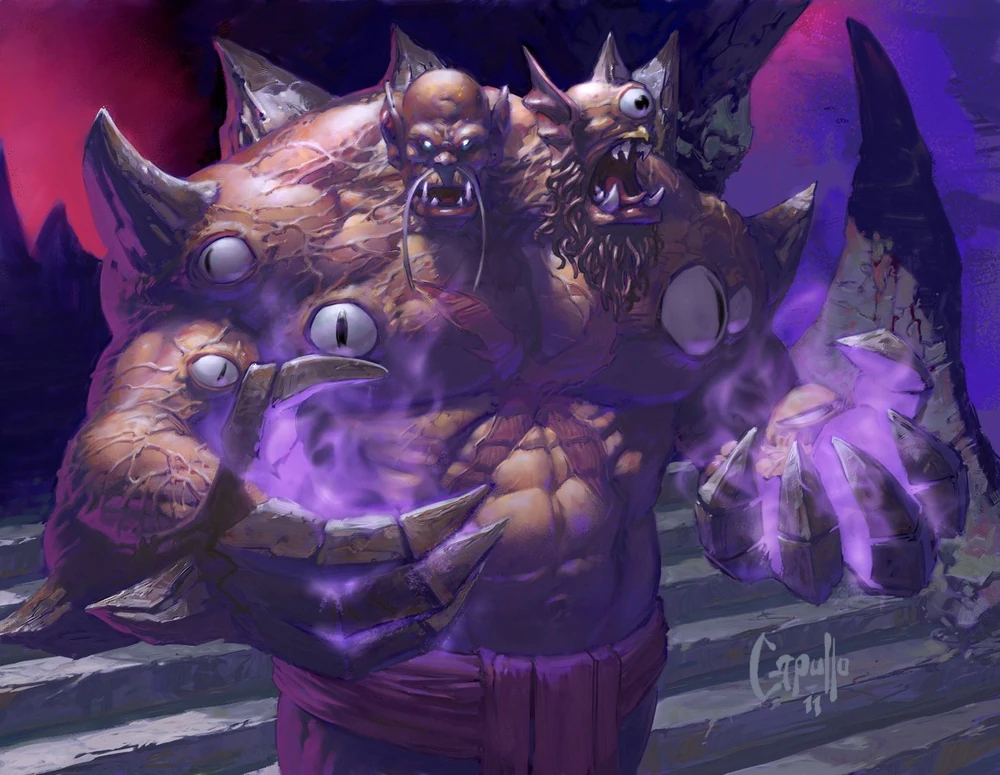
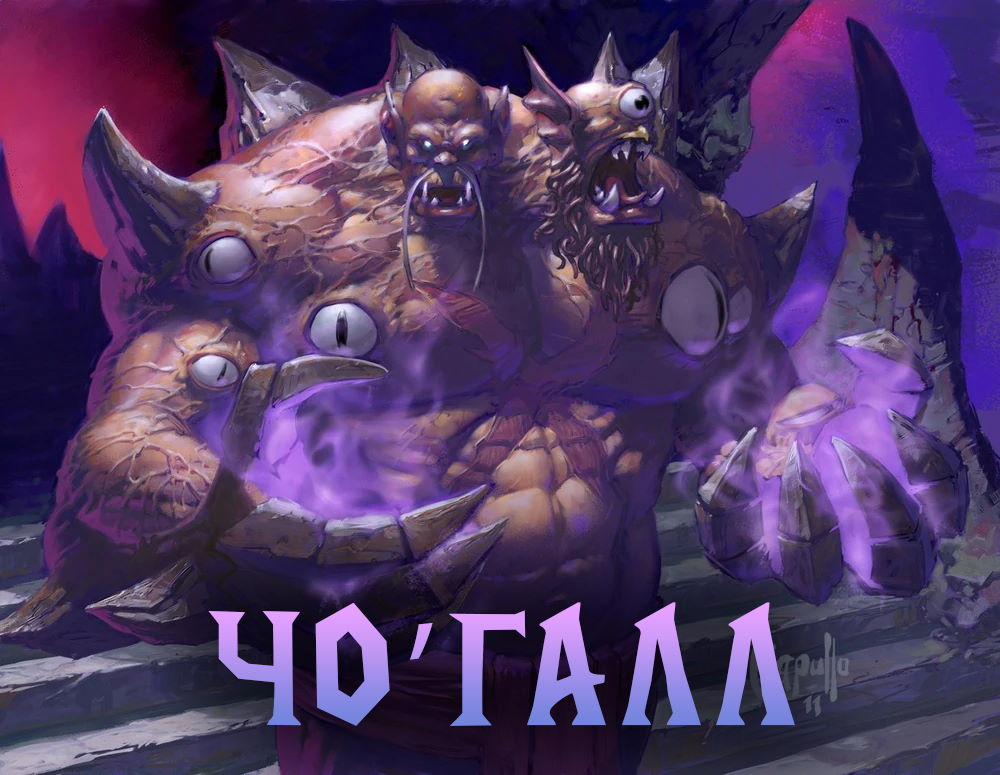
Images for Chogall

Changed region(s): [[0.155, 0.7123, 0.837, 1.0]]

diff --git a/docs/bot/Chogal.md b/docs/bot/Chogal.md
@@ -2,7 +2,7 @@
 sidebar_position: 5
 title: Чо'галл
 description: Описание и тактика на Чо'галла.
-image: /img/bot/Chogal/Chogal.jpg
+image: /img/bot/Chogal/Chogall.jpg
 ---
 
 import Tabs from '@theme/Tabs';
@@ -10,28 +10,25 @@ import TabItem from '@theme/TabItem';
 
 <div className="text--center">
 
-![Esho_dva_ebala](/img/bot/Chogal/Chogall.png)
+![Esho_dva_ebala](/img/bot/Chogal/Chogall.jpg)
 
 </div>
 
-<div className="text--center lore_text">
-<b>
+<div className="lore_text">
 
-Чо'галл — это двухголовый огр, который наряду с Черносердом Проповедником, стал прародителем подобных ему созданий.
+**Чо'галл — это двухголовый огр, который наряду с Черносердом Проповедником, стал прародителем подобных ему созданий.
 Он был учеником чернокнижника Гул'дана, помогавшего огру овладеть искусством тайной магии и освоить силы из
 Круговерти Пустоты. Со временем он стал одним из наиболее опасных и почитаемых членов старой Орды, что проявилось во
 время Первой и Второй войны против людей. Совместно с Килроггом Мертвым Глазом он возглавлял первую неудавшуюся осаду
-крепости Штормграда.
+крепости Штормграда.**
 
-Чо'галл занял место предыдущего вождя клана орков, после того как его предшественник был казнён за неповиновение Совету
-Теней. Двуголовый огр переименовал клан, дав ему новое название — Сумеречный Молот, уничтожив все записи со старым
-названием и
-упоминанием предыдущего вождя.
+**Чо'галл занял место предыдущего вождя клана орков, после того как его предшественник был казнён за неповиновение Совету
+Теней. Двухголовый огр переименовал клан, дав ему новое название — Сумеречный Молот, уничтожив все записи со старым
+названием и упоминанием предыдущего вождя.**
 
-Огр-маг превратил Сумеречный Молот в культ фанатиков, поклоняющихся древним богам — предвестникам апокалипсиса. Под
-предватительством Чо'Галла они встали на службу Смертокрыла, и помогают ему приблизить конец света, Время сумерек.
+**Огр-маг превратил Сумеречный Молот в культ фанатиков, поклоняющихся древним богам — предвестникам апокалипсиса. Под
+предводительством Чо'Галла они встали на службу Смертокрыла, и помогают ему приблизить конец света, Время сумерек.**
 
-</b>
 </div>
 
 Четвёртый энкаунтер Сумеречного бастиона. В нормальном режиме это ласт босс рейда. Но если убить его
@@ -59,7 +56,7 @@ import TabItem from '@theme/TabItem';
 - **Механика усиления Чо'Галла элементалями**: время от времени босс рядом с собой будет призывать огненного или тёмного
   элементаля. Это не тот адд которого нужно
   танчить, нет. Эти элемчики просто стоят и чилят на месте. Однако спустя несколько секунд Чо'Галл поглощает вызванного
-  элема, после чего либо **АОЕшит весь рейд [усилением тени](https://www.wowhead.com/cata/ru/spell=81572) (нужно
+  элема, после чего: либо **АОЕшит весь рейд [усилением тени](https://www.wowhead.com/cata/ru/spell=81572) (нужно
   прохилить)**, либо создаёт **огненные лужи [пламени](https://www.wowhead.com/cata/ru/spell=81538) по всей арене (не
   надо
   туда наступать)**. Однако тут есть нюанс: вызыванные элемы имеют здоровье. Чем больше будет ХП у них при поглощении
@@ -135,7 +132,7 @@ import TabItem from '@theme/TabItem';
 В целом 2-я фаза это чистый ДПС и Хил чек геймплей.
 
 <div className="text--center">
-<b><i>Отличие нормального режима от <span className="red">героического</span></i></b>
+***Отличие нормального режима от <span className="red">героического</span>***
 </div>
 
 </TabItem>
@@ -157,7 +154,7 @@ import TabItem from '@theme/TabItem';
 вырастает [тентакля](https://www.wowhead.com/cata/ru/spell=82125) и некоторые способности энкаунтера наносят
 дополнительный урон. **Если игрок полностью заразится порченной кровью, то он превращается в маленького безликого. Он
 наносит на 100% больше урона, время каста уменьшается на 100%. Однако персонажа становится невозможно вылечить.** Это не
-значит, что нужно лутать кровь и сильнее дамажить. **Никакого способо снять уровень порченной крови нет! Так что не
+значит, что нужно лутать кровь и сильнее дамажить. **Никакого способа снять уровень порченной крови нет! Так что не
 попадайтесь под способности босса и аддов.**
 
 </TabItem>
@@ -165,12 +162,12 @@ import TabItem from '@theme/TabItem';
 
 ## Арена энкаунтера
 
-Обычная большая комната. Чо'Галл сидит на троне, с боков арены находятся порталы, из которых босс вызывает окверняющих
+Обычная большая комната. Чо'Галл сидит на троне, с боков арены находятся порталы, из которых босс вызывает оскверняющих
 адептов
 
 <div className="text--center">
 
-![Esho_dva_ebala](/img/bot/Chogal/Arena_pokaz.png)
+![Esho_dva_ebala](/img/bot/Chogal/Arena_pokaz.jpg)
 
 </div>
 
@@ -180,14 +177,13 @@ import TabItem from '@theme/TabItem';
 
 ### 1 Фаза
 
-<div className="text--center">
-<b><i>Длится до 25% Чо'Галла</i></b>
-</div>
+:::note
 
+Длится до 25% Чо'Галла
 
-<div className="text--center">
-<b><i>Механика усиления Чо'Галла элементалями</i></b>
-</div>
+:::
+
+#### Усиление Чо'Галла элементалями
 
 На 1-й фазе Чо'Галл время от времени вызывает одного из двух элемов:
 
@@ -201,7 +197,7 @@ import TabItem from '@theme/TabItem';
 - [Приказ тьмы](https://www.wowhead.com/cata/ru/spell=81556) **(мгновенное)**: босс вызывает Владыку теней.
 
 <div className="text--center">
-<b><i>Вызов и поглощение элементаля</i></b>
+***Вызов и поглощение элементаля***
 
 TODO
 
@@ -212,14 +208,14 @@ TODO
 - [Мощь огня](https://www.wowhead.com/cata/ru/spell=93245) **(бафф на мобе)**: изначально 10 стаков. Если сносить ХП
   моба, то кол-во стаков убывает (1 стак каждые 10%). Минимум всегда остаётся 1
   стак [мощи огня](https://www.wowhead.com/cata/ru/spell=93245). **Элементаля нельзя убить, его здоровье не может
-  опустится ниже 1 единицы!** Через 10 сек. после призыва Чо'Галл поглощает элементаля. Сколько
+  опуститься ниже 1 единицы!** Через 10 сек. после призыва Чо'Галл поглощает элементаля. Сколько
   стаков [мощи](https://www.wowhead.com/cata/ru/spell=93245) было на мобе в момент поглощения, столько Чо'Галл получит
   стаков [огненного уничтожения](https://www.wowhead.com/cata/ru/spell=81194) (об этом ниже).
 - [Усиленные тени](https://www.wowhead.com/cata/ru/spell=81572) **(бафф на мобе)**: изначально 10 стаков. Если сносить
   ХП
   моба, то кол-во стаков убывает (1 стак каждые 10%). Минимум всегда остаётся 1
   стак [усиленных теней](https://www.wowhead.com/cata/ru/spell=81572). **Владыку нельзя убить, его здоровье не может
-  опустится ниже 1 единицы!** Через 10 сек. после призыва Чо'Галл поглощает владыку теней. Сколько
+  опуститься ниже 1 единицы!** Через 10 сек. после призыва Чо'Галл поглощает владыку теней. Сколько
   стаков [усилений](https://www.wowhead.com/cata/ru/spell=81572) было на мобе в момент поглощения, столько Чо'Галл
   получит
   стаков [усилений](https://www.wowhead.com/cata/ru/spell=81572) (об этом ниже).
@@ -234,7 +230,7 @@ TODO
 
 <div className="text--center">
 
-![Esho_dva_ebala](/img/bot/Chogal/Cho_luzi.gif)
+![Esho_dva_ebala](https://www.wowhcb.ru/adepts/bot/Chogal/Cho_luzi.gif)
 
 </div>
 
@@ -245,13 +241,11 @@ TODO
 
 <div className="text--center">
 
-![Esho_dva_ebala](/img/bot/Chogal/Cho_pihi.gif)
+![Esho_dva_ebala](https://www.wowhcb.ru/adepts/bot/Chogal/Cho_pihi.gif)
 
 </div>
 
-<div className="text--center">
-<b><i>Другие способности Чо'Галла на 1 фазе</i></b>
-</div>
+#### Другие способности Чо'Галла на 1 фазе
 
 - [Обращение в веру](https://www.wowhead.com/cata/ru/spell=91303) **(мгновенное)**: босс подчиняет разум нескольких
   игроков (если быть точным, то 4 штуки). Законтроленные игроки тут же начинают применять потоковое
@@ -266,16 +260,17 @@ TODO
           урон на 5% за каждый стак в течении 1 мин.
 
 <div className="text--center">
-<b><i>Пример с 10-ки. Внизу гифки виден анонс ([Поклонение](https://www.wowhead.com/cata/ru/spell=91317): Псифей, Махнец), и появляются "вражеские" фреймы. Протвар с чарджа "приводит в чуство" элема, который стоит поодаль от пачки.</i></b>
+***Пример с 10-ки. Внизу гифки виден анонс ([Поклонение](https://www.wowhead.com/cata/ru/spell=91317): Псифей, Махнец), 
+и появляются "вражеские" фреймы. Протвар с чарджа "приводит в чувство" элема, который стоит поодаль от пачки.***
 
-![Esho_dva_ebala](/img/bot/Chogal/Cho_poklonenie.gif)
+![Esho_dva_ebala](https://www.wowhcb.ru/adepts/bot/Chogal/Cho_poklonenie.gif)
 
 </div>
 
 :::caution
 
 Работает любой контроль, который сбивает каст. Очень хорошо работает [гром](https://www.wowhead.com/cata/ru/spell=59507)
-элем-шамана, т.к. обычно на этом боссе все стоят в одной пачке, а эта АОЕшка выводит из МК всег сразу же. По тойже
+элем-шамана, т.к. обычно на этом боссе все стоят в одной пачке, а эта АОЕшка выводит из МК всег сразу же. По той же
 причине [тайфун](https://www.wowhead.com/cata/ru/spell=50516) баланс-друида тоже юзабелен, хоть и несколько сложнее.
 
 :::
@@ -290,9 +285,9 @@ TODO
       получаемый <span className="dmg-shadow">тёмный</span> урон на 20%.
 
 <div className="text--center">
-<b><i>Пример от лица МТ (с его дебаффами)</i></b>
+***Пример от лица МТ (с его дебаффами)***
 
-![Esho_dva_ebala](/img/bot/Chogal/Cho_lazer.gif)
+![Esho_dva_ebala](https://www.wowhcb.ru/adepts/bot/Chogal/Cho_lazer.gif)
 
 </div>
 
@@ -306,16 +301,14 @@ TODO
   способность Чо'Галл всегда применяет за несколько секунд
   перед [призывом оскверняющих адептов](https://www.wowhead.com/cata/ru/spell=81628).
 
-<div className="text--center">
-<b><i>Оскверняющие адепты и слизни</i></b>
-</div>
+#### Оскверняющие адепты и слизни
 
 Данные адды появляются рядом с порталами в двух разных частях комнаты. Их призывает Чо'Галл
 заклинанием [призыв оскверняющего адепта](https://www.wowhead.com/cata/ru/spell=81628) **каждые 90 сек.**
 
 <div className="text--center">
 
-![Esho_dva_ebala](/img/bot/Chogal/Arena_pokaz.png)
+![Esho_dva_ebala](/img/bot/Chogal/Arena_pokaz.jpg)
 
 </div>
 
@@ -364,9 +357,11 @@ TODO
 <TabItem value="luza" label="Пролитая кровь древнего бога">
 
 <div className="text--center">
-<b><i>Смерть оскверняющего адепта (справа) и его [лужа](https://www.wowhead.com/cata/ru/spell=81757) после смерти. На гифке виден другой труп адда (слева) с [лужей](https://www.wowhead.com/cata/ru/spell=81757). ОТ всё сделал правильно: нужно ложить трупы этих мобов рядышком.</i></b>
+***Смерть оскверняющего адепта (справа) и его [лужа](https://www.wowhead.com/cata/ru/spell=81757) после смерти. 
+На гифке виден другой труп адда (слева) с [лужей](https://www.wowhead.com/cata/ru/spell=81757). ОТ всё сделал 
+правильно: нужно класть трупы этих мобов рядышком.***
 
-![Esho_dva_ebala](/img/bot/Chogal/Cho_luza_adda.gif)
+![Esho_dva_ebala](https://www.wowhcb.ru/adepts/bot/Chogal/Cho_luza_adda.gif)
 
 </div>
 
@@ -397,7 +392,7 @@ TODO
 
 :::danger
 
-Трупы аддов не пропадают со временем. Таким образом, чем дальше бой тем больше слизняков будет появлятся после прочтения
+Трупы аддов не пропадают со временем. Таким образом, чем дальше бой тем больше слизняков будет появляться после прочтения
 Чо'Галлом [заражённой крови](https://www.wowhead.com/cata/ru/npc=43707), т.к. рейду придётся убивать оскверняющих
 адептов. Больше трупов - больше аддов-слизней.
 
@@ -429,7 +424,7 @@ TODO
 
 <div className="text--center">
 
-![Esho_dva_ebala](/img/bot/Chogal/Cho_adepti+sliz.gif)
+![Esho_dva_ebala](https://www.wowhcb.ru/adepts/bot/Chogal/Cho_adepti+sliz.gif)
 
 </div>
 
@@ -453,20 +448,22 @@ TODO
 **ЗАМЕДЛЯЮТ И ЗАЛИВАЮТ**. Каждый мелкий адд-слизь выбирает случайного игрока и направляется к нему. На этих мелких мобов
 работают
 все основные контроли движения: замедление,
-оглушение, откидывание, обездвиживание. Они двигается достаточно быстро (быстрее чем бегает игрок). Адды-слизи в своём
+оглушение, откидывание, обездвиживание. Они двигаются достаточно быстро (быстрее чем бегает игрок). Адды-слизи в своём
 арсенале не имеют никакие способности. Однако каждая их атака помимо нанесения урона также увеличивает
 уровень [порченной крови](https://www.wowhead.com/cata/ru/spell=81701).
 
 ### 2 Фаза
 
-<div className="text--center">
-<b><i>Начинается на 25% Чо'Галла и продолжается до конца</i></b>
-</div>
+:::note
+
+Начинается на 25% Чо'Галла и продолжается до конца
+
+:::
 
 В начале этой фазы босс применяет следующую способность:
 
 - [Поглощение крови древнего бога](https://www.wowhead.com/cata/ru/spell=82630) **(мгновенное -> потоковое 5 сек.)**:
-  Чо'Галл всасывает себя всю порченную кровь от аддов на арене.
+  Чо'Галл всасывает себя всю порченую кровь от аддов на арене.
     - Пропадают все лужи [пролитой крови древнего бога](https://www.wowhead.com/cata/ru/spell=81757) под трупами
       оскверняющих адептов.
     - Пропадают все трупы оскверняющих адептов.
@@ -475,7 +472,7 @@ TODO
 
 <div className="text--center">
 
-![Sliz](/img/bot/Chogal/Cho_perehodka.gif)
+![Sliz](https://www.wowhcb.ru/adepts/bot/Chogal/Cho_perehodka.gif)
 
 </div>
 
@@ -486,7 +483,7 @@ TODO
 
 - [Порча древнего бога](https://www.wowhead.com/cata/ru/spell=82361) **(дамажащая аура)**: ВСЕ игроки получают
   <span className="dmg-shadow">тёмный</span> урон раз в 2 сек. Базовое значение составляет 6500. Урон по конкретному
-  игроку зависит от его уровня [порченной крови](https://www.wowhead.com/cata/ru/spell=81701). Каждая накопленная единца
+  игроку зависит от его уровня [порченной крови](https://www.wowhead.com/cata/ru/spell=81701). Каждая накопленная единица
   увеличивает входящий урон от ауры на 3%. Вдобавок сама аура с каждым тиком увеличивает
   уровень [порченной крови](https://www.wowhead.com/cata/ru/spell=81701).
 
@@ -501,18 +498,18 @@ TODO
 
 - [Смутные творения (глазки)](https://www.wowhead.com/cata/ru/spell=82414) **(мгновенное)**: Чо'Галл призывает рядом с
   собой
-  10 маленьких тентаклей с глазками. У кждого глазка **248 982 здоровья**. Их можно станить. Они выбирают случайных
+  10 маленьких тентаклей с глазками. У каждого глазка **248 982 здоровья**. Их можно станить. Они выбирают случайных
   игроков и поражают
   их [ослабляющими лучами](https://www.wowhead.com/cata/ru/spell=82411). Чо'Галл призывает эти глазки каждые 40 сек.
     - [Ослабляющий луч](https://www.wowhead.com/cata/ru/spell=82411) **(1,5 сек. -> потоковое 10 сек.)**: игрок, на
-      котором сфокусирован глазок, получает можное ослабление. Его урон и исходящее исцеление уменьшены на 75%. Также
+      котором сфокусирован глазок, получает мощное ослабление. Его урон и исходящее исцеление уменьшены на 75%. Также
       каждую секунду персонаж получает 11 000 <span className="dmg-shadow">тёмного</span> урона и увеличивает свой
       уровень  [порченной крови](https://www.wowhead.com/cata/ru/spell=81701). Это заклинание можно **прервать**.
 
 <div className="text--center">
-<b><i>Пример [смутных творений](https://www.wowhead.com/cata/ru/spell=82414) из 10-ки (там появляется 4 штуки за раз)</i></b>
+***Пример [смутных творений](https://www.wowhead.com/cata/ru/spell=82414) из 10-ки (там появляется 4 штуки за раз)***
 
-![Sliz](/img/bot/Chogal/Cho_glaza.gif)
+![Sliz](https://www.wowhcb.ru/adepts/bot/Chogal/Cho_glaza.gif)
 
 </div>
 
@@ -526,7 +523,7 @@ TODO
 
 <div className="text--center">
 
-![Sliz](/img/bot/Chogal/Cho_shuplo.gif)
+![Sliz](https://www.wowhcb.ru/adepts/bot/Chogal/Cho_shuplo.gif)
 
 </div>
 
@@ -538,7 +535,7 @@ TODO
 
 <div className="text--center">
 
-![Sliz](/img/bot/Chogal/Cho_fontani.gif)
+![Sliz](https://www.wowhcb.ru/adepts/bot/Chogal/Cho_fontani.gif)
 
 </div>
 
@@ -568,7 +565,7 @@ TODO
   фазе ([порча древнего бога](https://www.wowhead.com/cata/ru/spell=82361)) на 3%.
 
 <div className="text--center">
-<b><i>Пустая шкала (ну почти)</i></b>
+***Пустая шкала (ну почти)***
 
 ![Esho_dva_ebala](/img/bot/Chogal/Indicator_0.png)
 
@@ -657,16 +654,12 @@ TODO гифки
 :::
 
 <div className="text--center">
-<b><i>Способы повышения уровня [порченной крови](https://www.wowhead.com/cata/ru/spell=81701)</i></b>
+***Способы повышения уровня [порченной крови](https://www.wowhead.com/cata/ru/spell=81701)***
 </div>
 
 Как уже было сказано, некоторые способности энкаунтера повышают заражение игроков. Я их разделю на два типа:
 
-<b><i>
-
-<span className="ooze-color">Избегаемые</span>
-
-</i></b>
+<span className="ooze-color">***Избегаемые***</span>
 
 - [Порча:ускорение](https://www.wowhead.com/cata/ru/spell=81836)
   **(2 ед. за каждый тик)**: <span className="debuf-magic">магический</span>
@@ -690,11 +683,8 @@ TODO гифки
   которые появляются на 2-й фазе и ослабляют случайных игроков. **Нужно как можно скорее зафокусить/законтролить эти
   глазки!**
 
-<b><i>
 
-<span className="red">Неизбегаемые</span>
-
-</i></b>
+<span className="red">***Неизбегаемые***</span>
 
 - [Порча древнего бога](https://www.wowhead.com/cata/ru/spell=82361) **(1 ед. за тик)**: дамажащая аура на 2-й фазе,
   которая бьёт по ВСЕМ игрокам. Действует от начала фазы и до конца. **Необходимо убить Чо'Галла!**
